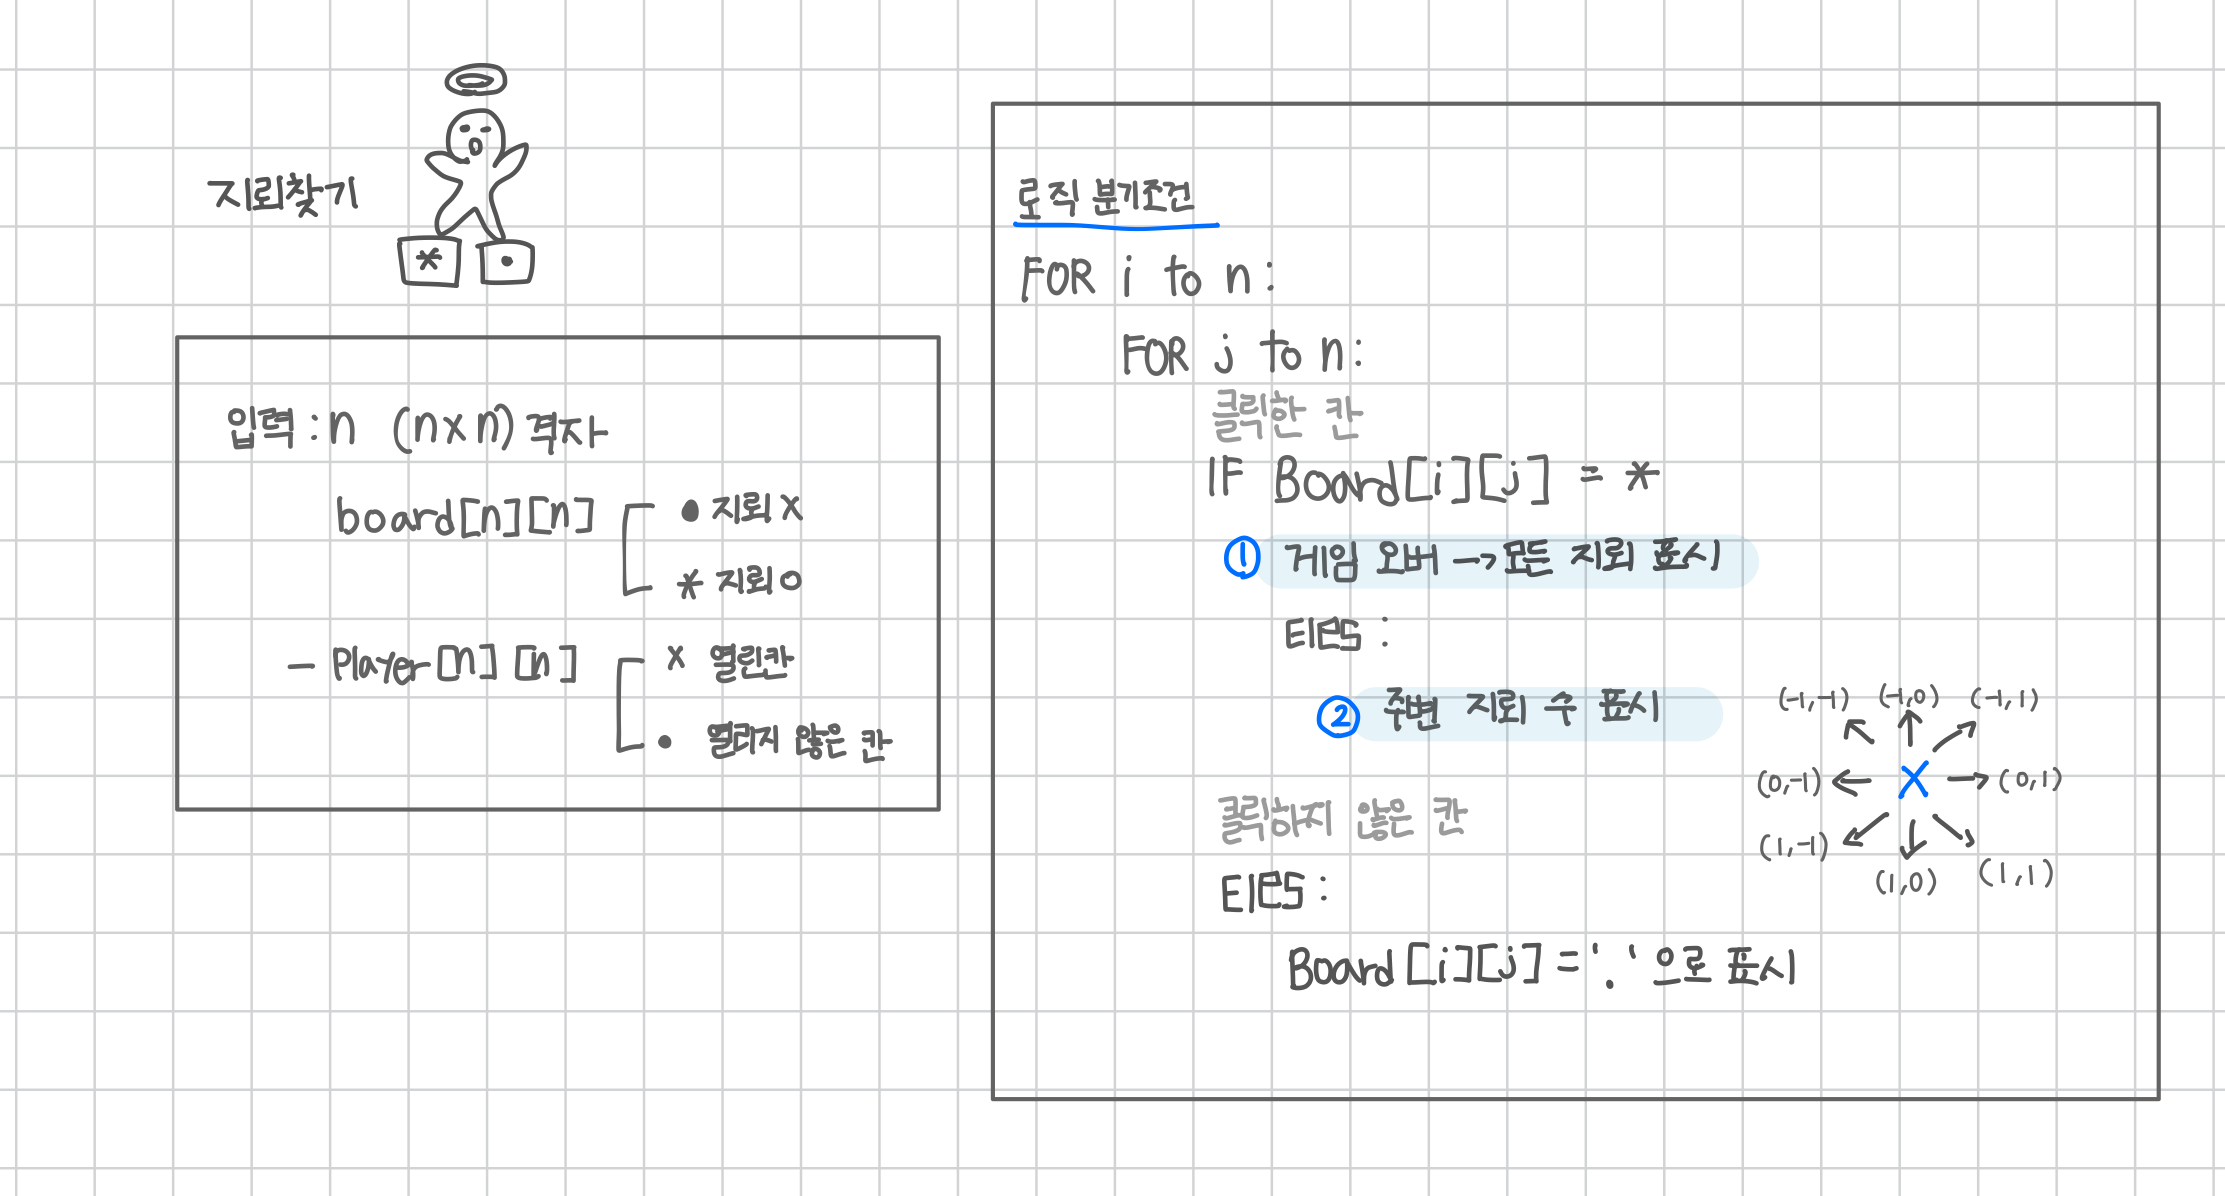
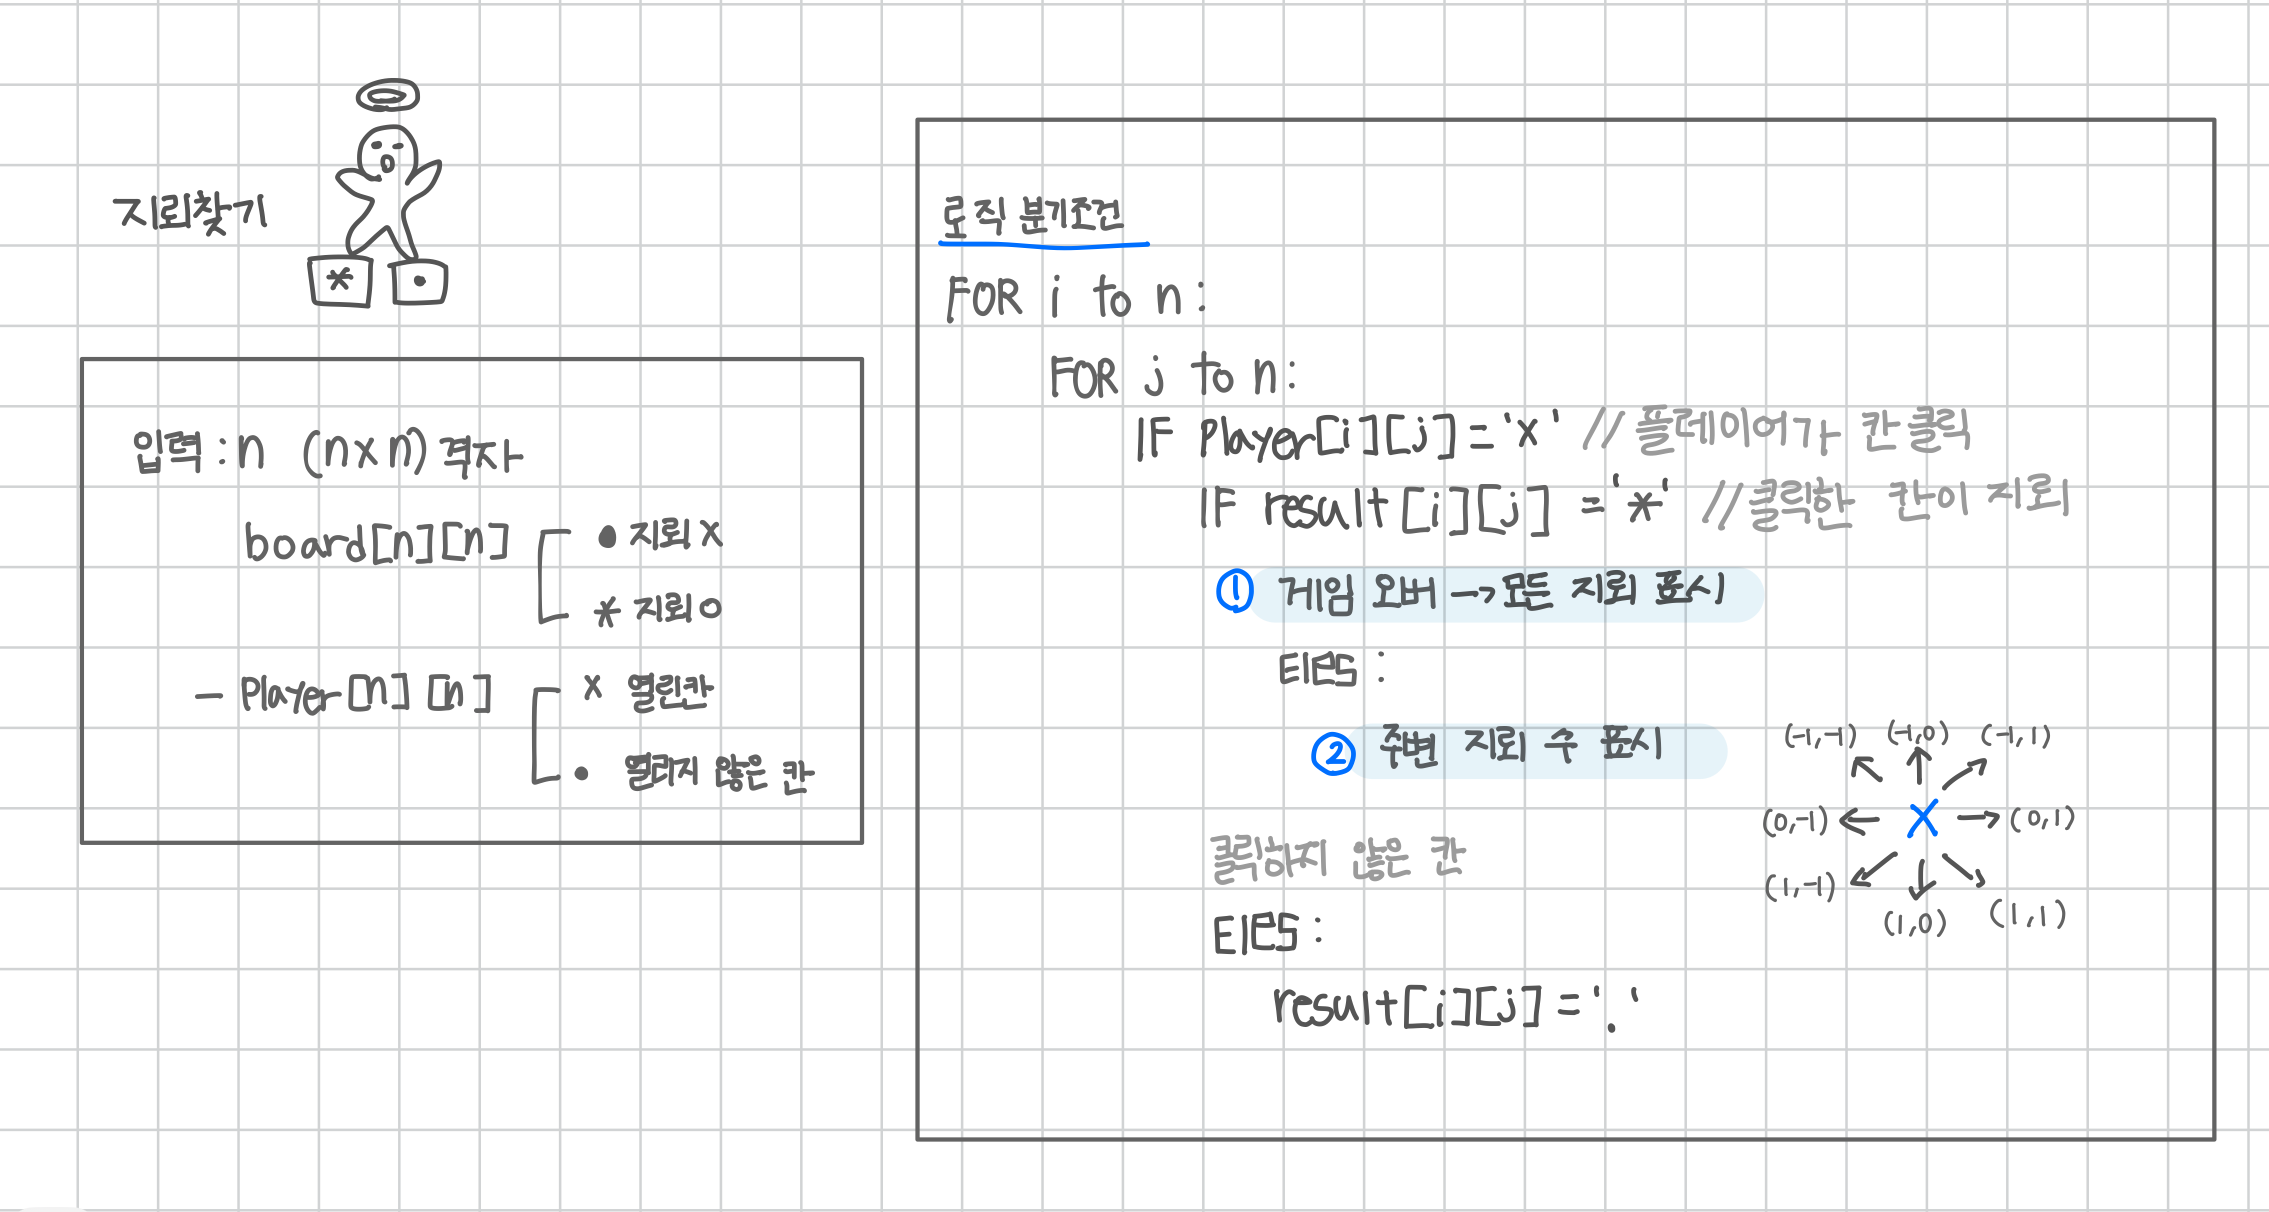
[update] - 백준 4396번 - 지뢰 찾기

Changed region(s): [[0.0, 0.0, 1.0, 1.0]]

diff --git a/_posts/CS/Algorithm/2025-07-16-[JAVA] 백준 4396번 - 지뢰 찾기.md b/_posts/CS/Algorithm/2025-07-16-[JAVA] 백준 4396번 - 지뢰 찾기.md
@@ -25,9 +25,18 @@ sidebar:
 
 ![4396 도식화](<../../../assets/images/2025/4396 도식화.png>)
 
+1. 지뢰를 클릭했는지 확인 (`player[i][j] == 'x'`)
+2. 지뢰 클릭 -> 모든 지뢰 칸출력
+3. 지뢰 클릭 x -> 주변 지뢰 개수 세서 `result[x][y]`에 문자로 저장
+4. 클릭 안 한 칸이면 `result[x][y] = '.'`
+
+최종적으로 result 배열을 출력된다.
+
 <br>
 
 ## 배운 점
+
+> `new String(result[i])`란?
 
 - `new String(result[i])`: char[] -> String로 변환
 - result의 각 행을 한 줄씩 출력한다.
@@ -49,6 +58,28 @@ for (int i = 0; i < n; i++) {
     }
     System.out.println();
 }
+```
+
+<br>
+
+> 숫자 -> 문자 변환
+
+아래 코드는 int형인 cnt 값을 문자로 변환한다.
+
+```java
+return (char)(cnt + '0');
+```
+
+e.g., `cnt = 3`이면 `'0'` + `3` → `'3'` (문자 '3' 반환)
+
+<br>
+
+> 문자 -> 숫자 변환
+
+`cnt - '0'`은 `'3'` 같은 문자에서 숫자로 변환할 때 사용한다.
+
+```java
+return (char)(cnt - '0');
 ```
 
 <br><br>
@@ -95,7 +126,7 @@ public class Main {
         // 게임 진행
         for (int i = 0; i < n; i++) {
             for (int j = 0; j < n; j++) {
-                // 클릭한 칸
+                // 플레이어가 칸을 클릭했을 때
                 if (player[i][j] == 'x') {
                     // 지뢰 클릭
                     if (board[i][j] == '*') {
